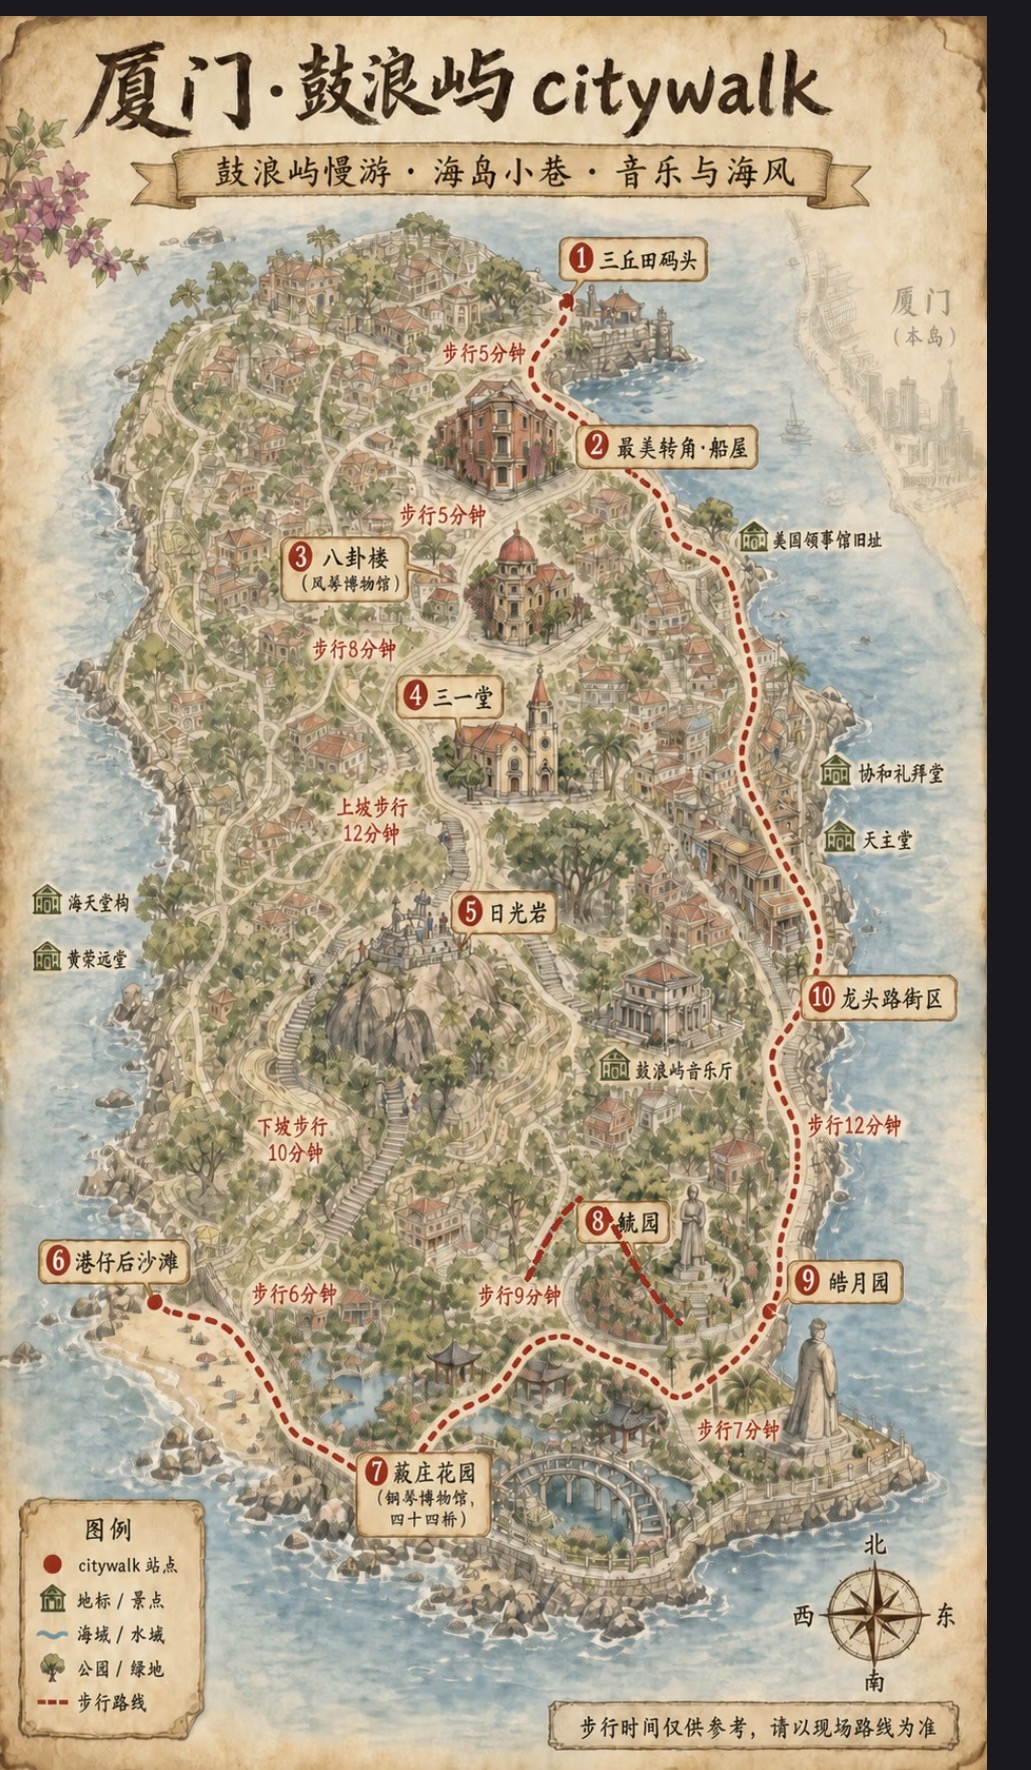
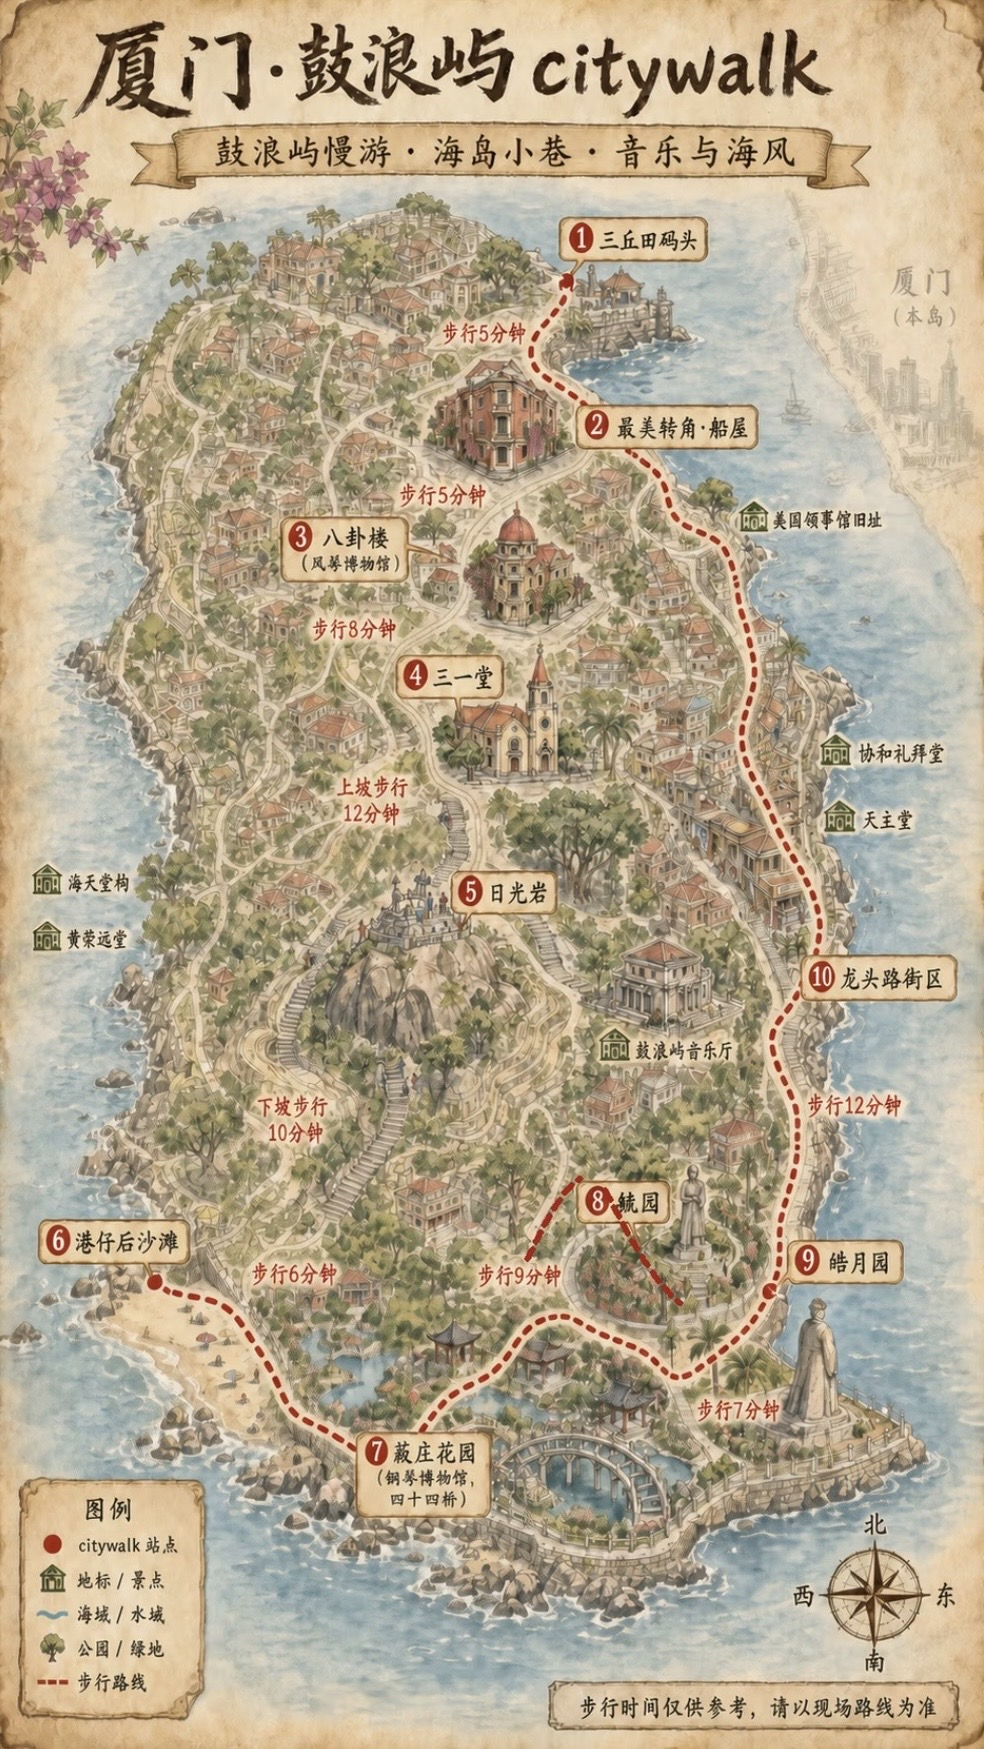
feat: replace xiamen citywalk map

diff --git a/sw.js b/sw.js
@@ -1,6 +1,6 @@
 // 在璐上 — Service Worker
 // 目的：Add to Home Screen 后离线也能打开壳，弱网下用缓存兜底
-const CACHE = 'lu-travel-v24';
+const CACHE = 'lu-travel-v25';
 const PRECACHE = [
   '/',
   '/manifest.json',
@@ -29,6 +29,7 @@ const PRECACHE = [
   '/assets/maps/seoul-area-guide.jpg',
   '/assets/maps/seoul-slow-travel-map.jpg',
   '/assets/maps/seoul-full-map-v2.jpg',
+  '/assets/maps/xiamen-gulangyu-citywalk.jpg',
   '/assets/docs/visa/仇金鹿的韩亚航空官方行程单.pdf',
   '/assets/docs/visa/张子豪的韩亚航空官方行程单.pdf',
   '/assets/docs/visa/携程中文版机票行程单.pdf',

diff --git a/HANDOFF_PROMPT.md b/HANDOFF_PROMPT.md
@@ -38,7 +38,7 @@
 - API 地址：`https://hanoi-d4gj8vd2q1e7a3dc0.service.tcloudbase.com/korea-api`。
 - Vercel 项目：`lu-travel`；生产地址：`https://jinlu.cloud/`。
 - 国内入口：`https://korea-hanoi-d4gj8vd2q1e7a3dc0.webapps.tcloudbase.com/`；前端或图片修改后必须额外部署 CloudBase 静态包。
-- Service Worker 当前缓存版本：`lu-travel-v24`；改资源后必须递增并验证旧缓存清理。
+- Service Worker 当前缓存版本：`lu-travel-v25`；改资源后必须递增并验证旧缓存清理。
 - 多数数据接口当前是整批替换，存在双设备覆盖风险，这是已知架构缺口。
 - 旅程选择层已有 JSON 导出/导入恢复；后端已提供 `/records/:collection/:docId` 单条更新/删除和 `baseUpdatedAt` 冲突检测，但前端尚未全部接入。
 - 旅程设置已支持成员、时区、城市、封面和从已有旅程复制框架；不要把这误写成完整资料 CRUD。

diff --git a/PROJECT_STATUS.md b/PROJECT_STATUS.md
@@ -61,7 +61,7 @@ CloudBase 已按 `tripId` 隔离，已有本地缓存和基础重试队列；后
 - `index.html`：页面、样式、旅程配置、交互和本地缓存。
 - `cloudfunctions/korea-api/index.js`：CloudBase HTTP API，目前包含批量替换逻辑。
 - `manifest.json`：App 名称“在璐上”。
-- `sw.js`：离线缓存，当前缓存版本 `lu-travel-v24`。
+- `sw.js`：离线缓存，当前缓存版本 `lu-travel-v25`。
 - `assets/photos/`：画册和旅行图片。
 - `assets/maps/`：釜山、首尔手帐地图。
 - `scripts/verify.mjs`：发布前线上入口、资源、API 和天气 smoke check。
